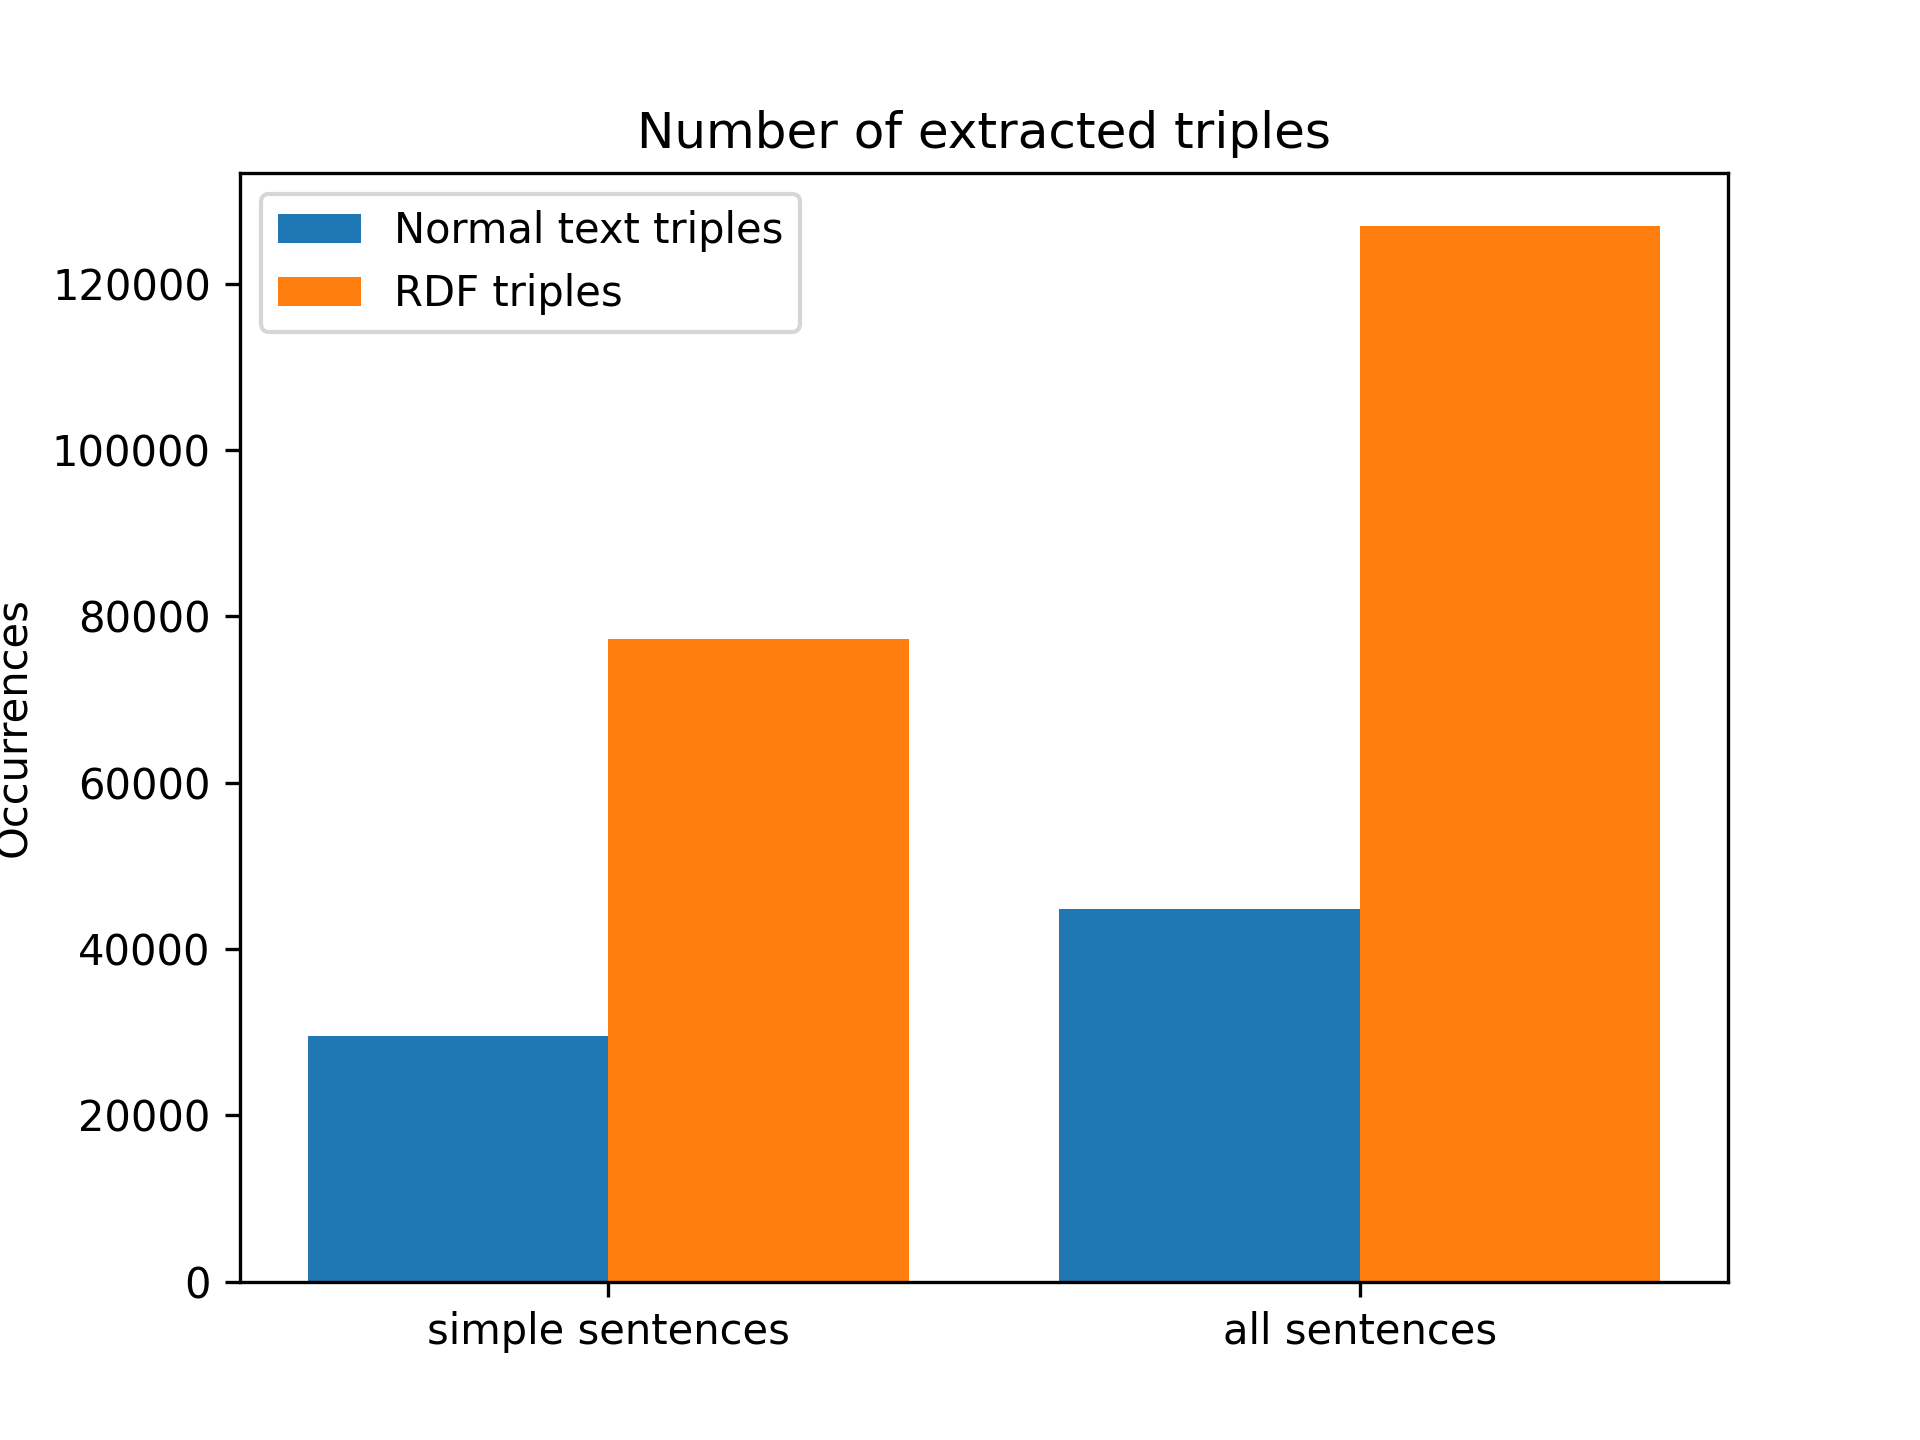
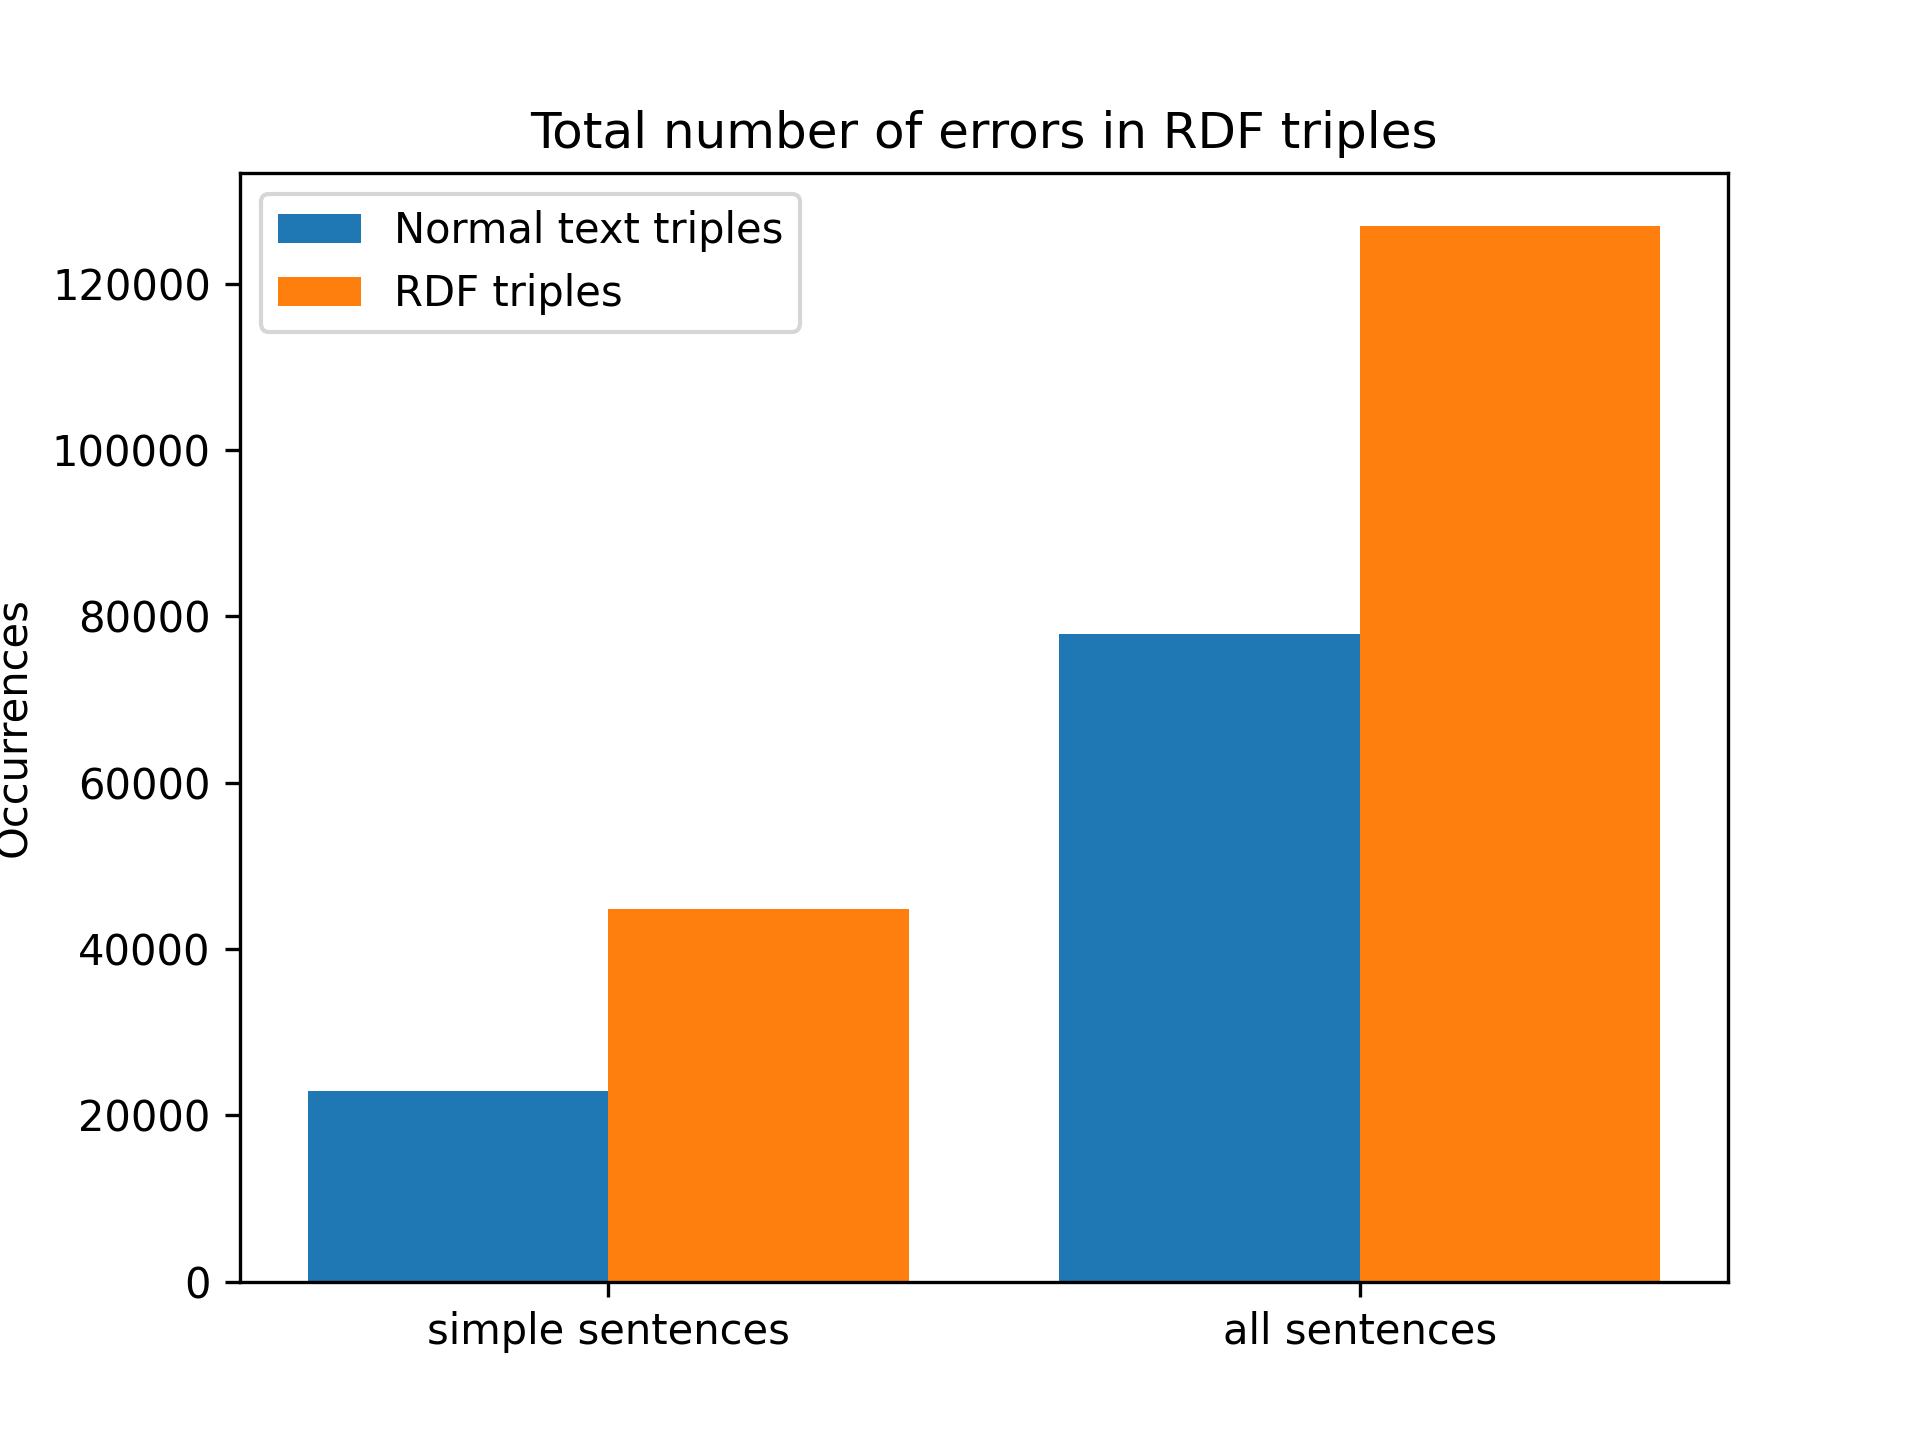
cw9 blog post

diff --git a/code/temp.py b/code/temp.py
@@ -29,10 +29,10 @@ def mult_bars(labels, vals1,vals2, titl):
     plt.ylabel('Occurrences')
     
     width = 0.40
-    plt.bar(x_pos-0.2, vals1, width, label="RDF triples with any kind of errors")
-    plt.bar(x_pos+0.2, vals2, width, label="Total RDF triples")
+    plt.bar(x_pos-0.2, vals1, width, label="Normal text triples")
+    plt.bar(x_pos+0.2, vals2, width, label="RDF triples")
     plt.legend()
-    plt.savefig("results/total_num_errors.png",  dpi=300)
+    plt.savefig("results/num_triples.png",  dpi=300)
     plt.show()
 
 def main():
@@ -41,9 +41,9 @@ def main():
     #baars(labels, vals, "Number of sentences by type")
 
     labels = ["simple sentences", "all sentences"]
-    vals1 = [29524, 44778]
-    vals2 = [77296, 127010]
-    #mult_bars(labels, vals1, vals2, "Number of extracted triples")
+    vals1 = [29524, 77296]
+    vals2 = [44778, 127010]
+    mult_bars(labels, vals1, vals2, "Number of extracted triples")
 
     labels = ["simple sentences", "all sentences"]
     vals1 = [18871, 68529]
@@ -58,6 +58,6 @@ def main():
     labels = ["simple sentences", "all sentences"]
     vals1 = [22976, 77912]
     vals2 = [44778, 127010]
-    mult_bars(labels, vals1, vals2, "Total number of errors in RDF triples")
+    #mult_bars(labels, vals1, vals2, "Total number of errors in RDF triples")
 if __name__ == "__main__":
     main()
